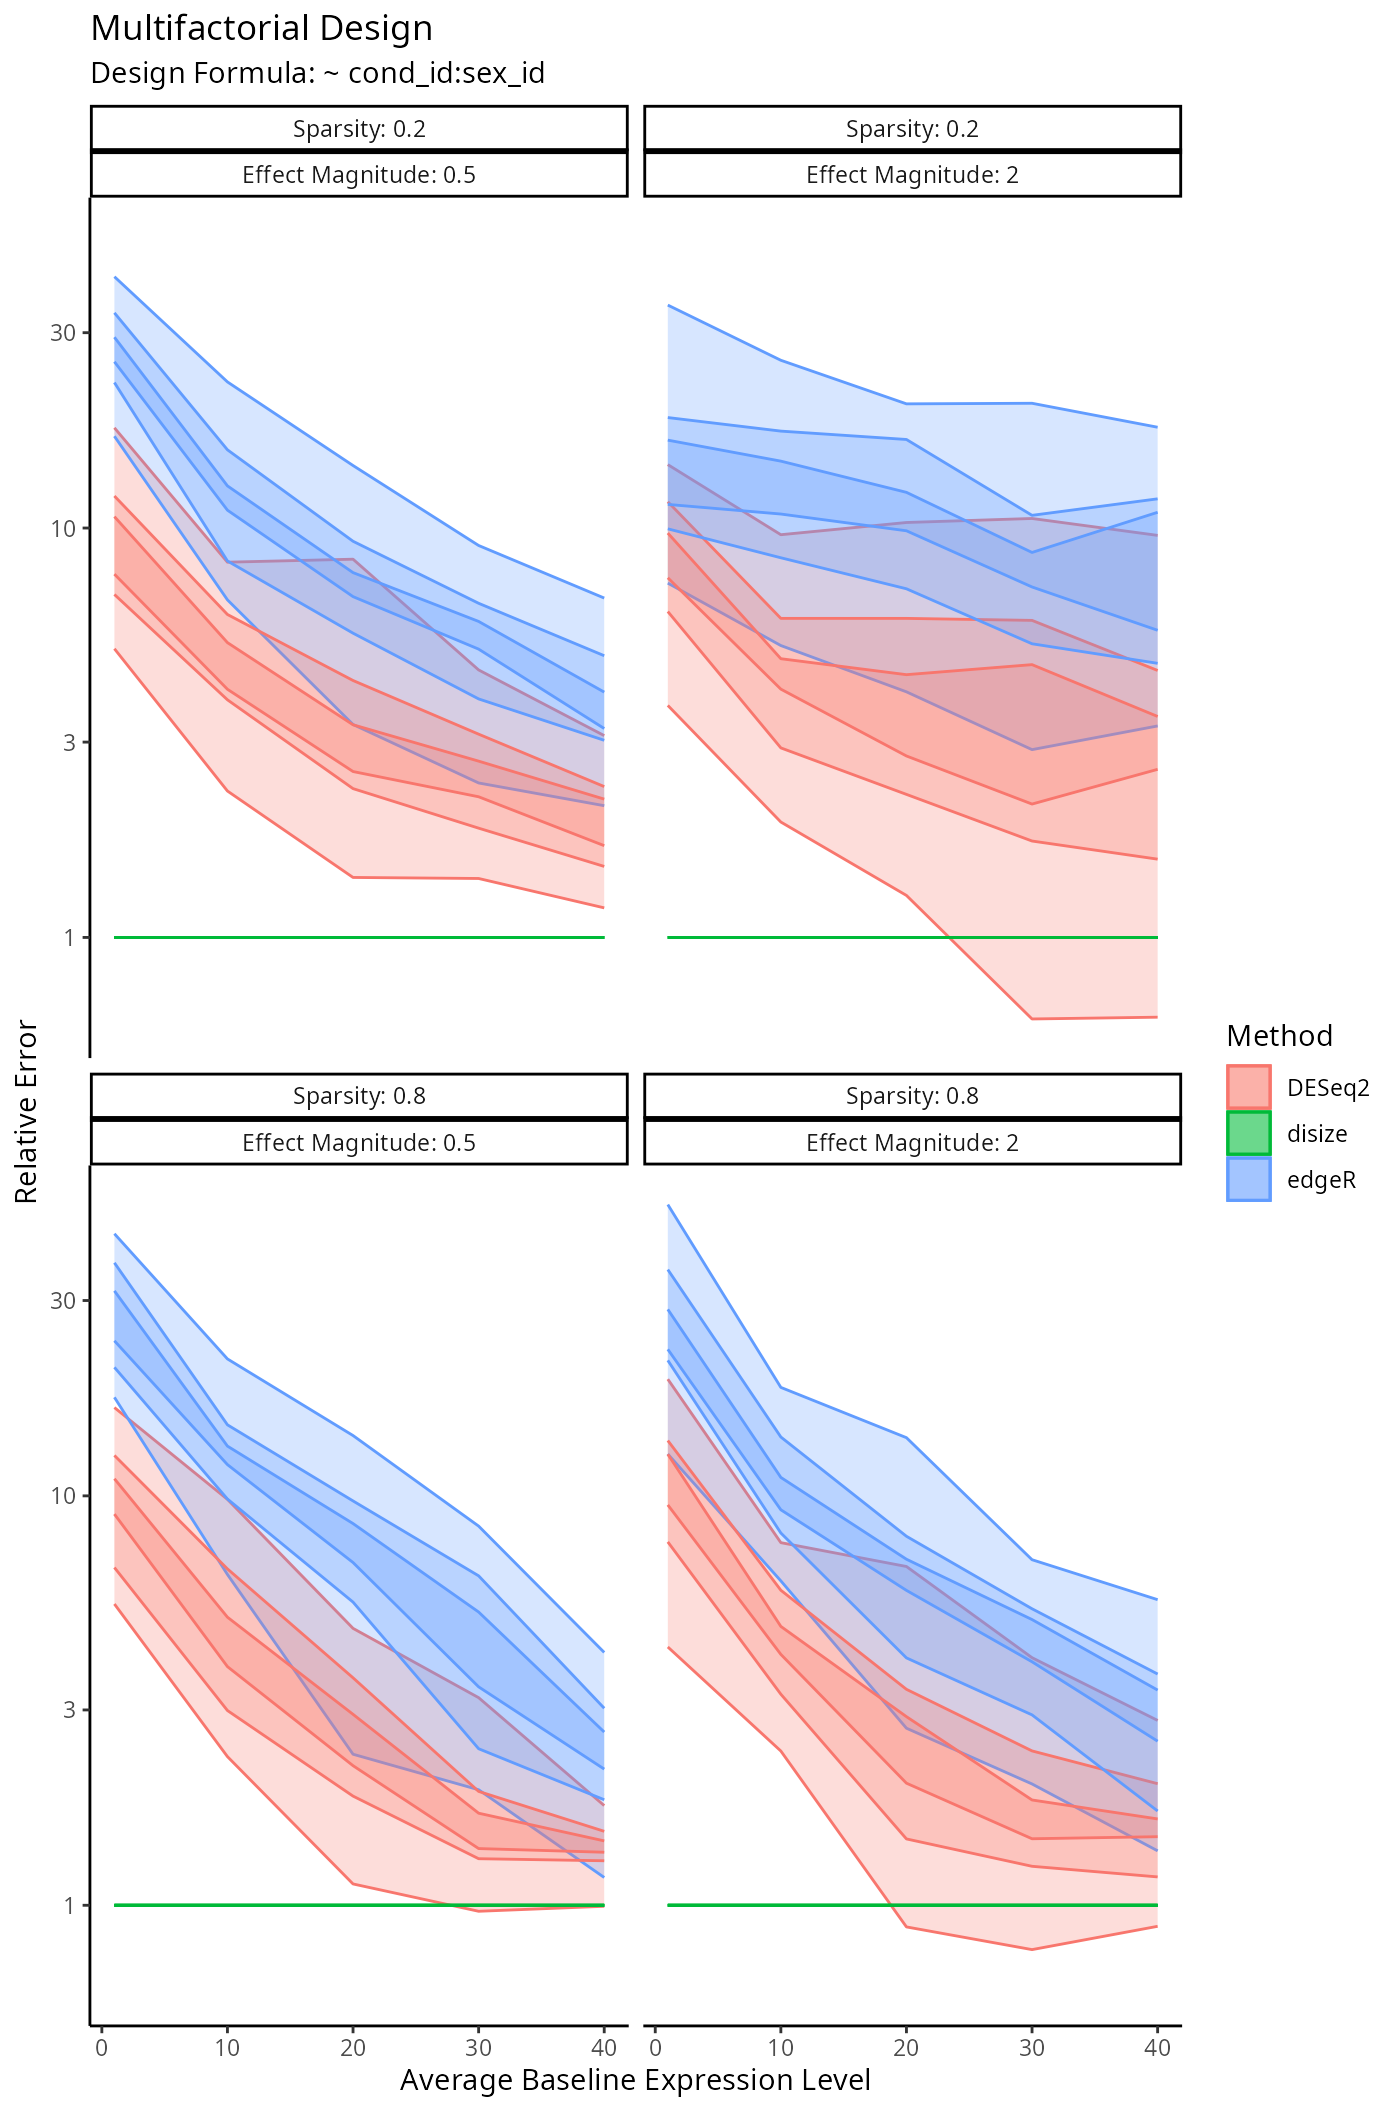
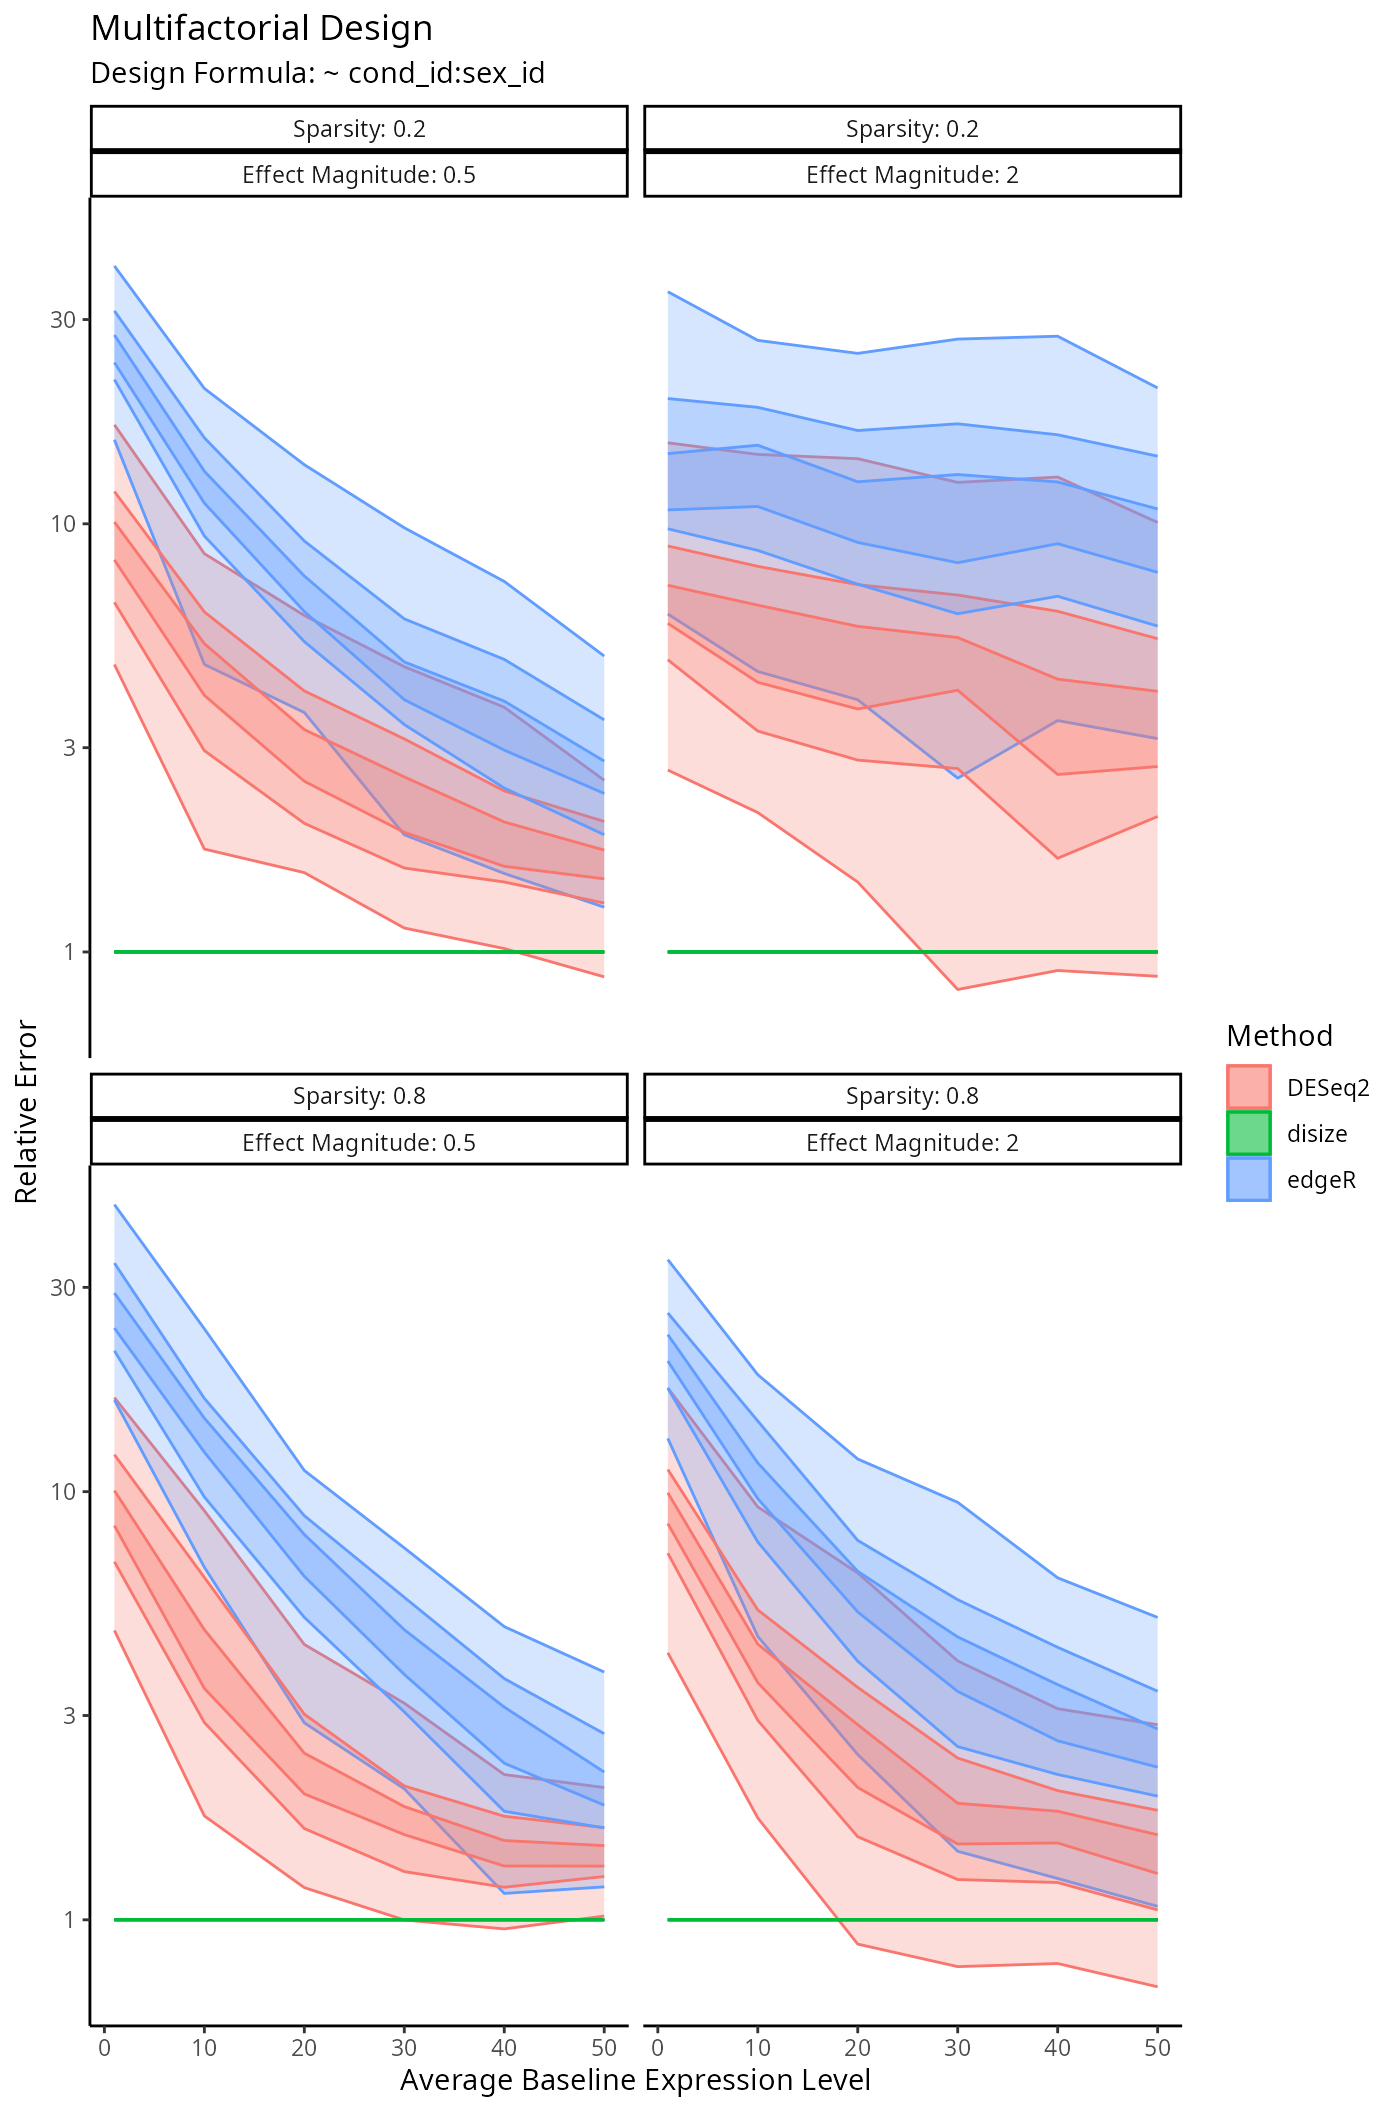
Built site for disize@0.5.0:

diff --git a/articles/benchmarking.html b/articles/benchmarking.html
@@ -127,12 +127,22 @@ N_{i^{\dagger}} - y_{i^{\dagger},g} }{ N_{i^{\dagger}} y_{i^{\dagger},g}
 symmetrically “trimming” away the smallest and largest ratios for a
 sample <span class="math inline">i</span> to XX% of the original number
 (defaults to 70%).</p>
-<p>We finally compute the size factor by taking the weighted average of
-these ratios and raising it to the second power:</p>
+<p>We finally compute the “normalization” factor (distinct from a size
+factor) by taking the weighted average of these ratios and raising it to
+the second power:</p>
 <p><span class="math display">
-    \log_2 \hat{s}_i = \frac{ \sum_{g \in \mathcal{G}'_i} w_{i,g}
+    \log_2 \hat{f}_i = \frac{ \sum_{g \in \mathcal{G}'_i} w_{i,g}
 R_{i,g} }{ \sum_{g \in \mathcal{G}'_i} w_{i,g} }
 </span></p>
+<p>The <em>size factor</em> is then found by taking the product with the
+total number of observed counts:</p>
+<p><span class="math display">
+    \hat{s}_i = N_i \hat{f}_i
+</span></p>
+<blockquote>
+<p>Note: This is referred to as the “effective library size” by the
+edgeR authors.</p>
+</blockquote>
 </div>
 </div>
 <div class="section level2">

diff --git a/articles/disize.html b/articles/disize.html
@@ -202,11 +202,11 @@ factors:</p>
 <span><span class="op">)</span></span>
 <span><span class="co">#&gt; Formatting data...</span></span>
 <span><span class="co">#&gt; Optimizing over initialization...</span></span>
-<span><span class="co">#&gt; Estimating size factors... (Max ETA: ~93.6s)</span></span>
+<span><span class="co">#&gt; Estimating size factors... (Max ETA: ~95.8s)</span></span>
 <span><span class="co">#&gt; Warning in disize::disize(design_formula, counts, metadata, batch_name =</span></span>
 <span><span class="co">#&gt; "sample_id", : Model did not converge, retrying fit with different</span></span>
 <span><span class="co">#&gt; initialization... (if you see this multiple times try increasing 'n_iters')</span></span>
-<span><span class="co">#&gt; Finised in 12.6s!</span></span>
+<span><span class="co">#&gt; Finised in 12.7s!</span></span>
 <span><span class="fu"><a href="https://rdrr.io/r/base/print.html" class="external-link">print</a></span><span class="op">(</span><span class="va">size_factors_1</span><span class="op">)</span></span>
 <span><span class="co">#&gt;       Ctrl1       Ctrl2       Ctrl3        LPS1        LPS2        LPS3 </span></span>
 <span><span class="co">#&gt;  0.08671084  0.01092470 -0.07757363  0.08014565  0.00838777  0.09461482 </span></span>
@@ -229,8 +229,8 @@ a larger <code>n_feats</code>:</p>
 <span><span class="op">)</span></span>
 <span><span class="co">#&gt; Formatting data...</span></span>
 <span><span class="co">#&gt; Optimizing over initialization...</span></span>
-<span><span class="co">#&gt; Estimating size factors... (Max ETA: ~129.3s)</span></span>
-<span><span class="co">#&gt; Finised in 22.9s!</span></span>
+<span><span class="co">#&gt; Estimating size factors... (Max ETA: ~133.6s)</span></span>
+<span><span class="co">#&gt; Finised in 23.1s!</span></span>
 <span><span class="fu"><a href="https://rdrr.io/r/base/print.html" class="external-link">print</a></span><span class="op">(</span><span class="va">size_factors_2</span><span class="op">)</span></span>
 <span><span class="co">#&gt;        Ctrl1        Ctrl2        Ctrl3         LPS1         LPS2         LPS3 </span></span>
 <span><span class="co">#&gt;  0.094264803  0.013007556 -0.070802495  0.069177490 -0.005186325  0.081820682 </span></span>

diff --git a/articles/comparing-defs.html b/articles/comparing-defs.html
@@ -173,8 +173,8 @@ for both batch definitions:</p>
 <span><span class="op">)</span></span>
 <span><span class="co">#&gt; Formatting data...</span></span>
 <span><span class="co">#&gt; Optimizing over initialization...</span></span>
-<span><span class="co">#&gt; Estimating size factors... (Max ETA: ~47.8s)</span></span>
-<span><span class="co">#&gt; Finised in 10.8s!</span></span>
+<span><span class="co">#&gt; Estimating size factors... (Max ETA: ~49.3s)</span></span>
+<span><span class="co">#&gt; Finised in 11.2s!</span></span>
 <span></span>
 <span><span class="va">size_factors_2</span> <span class="op">&lt;-</span> <span class="fu">disize</span><span class="fu">::</span><span class="fu"><a href="../reference/disize.html">disize</a></span><span class="op">(</span></span>
 <span>    <span class="va">design_formula</span>,</span>
@@ -186,7 +186,7 @@ for both batch definitions:</p>
 <span><span class="op">)</span></span>
 <span><span class="co">#&gt; Formatting data...</span></span>
 <span><span class="co">#&gt; Optimizing over initialization...</span></span>
-<span><span class="co">#&gt; Estimating size factors... (Max ETA: ~46.1s)</span></span>
+<span><span class="co">#&gt; Estimating size factors... (Max ETA: ~48.8s)</span></span>
 <span><span class="co">#&gt; Finised in 19.7s!</span></span></code></pre></div>
 </div>
 <div class="section level2">